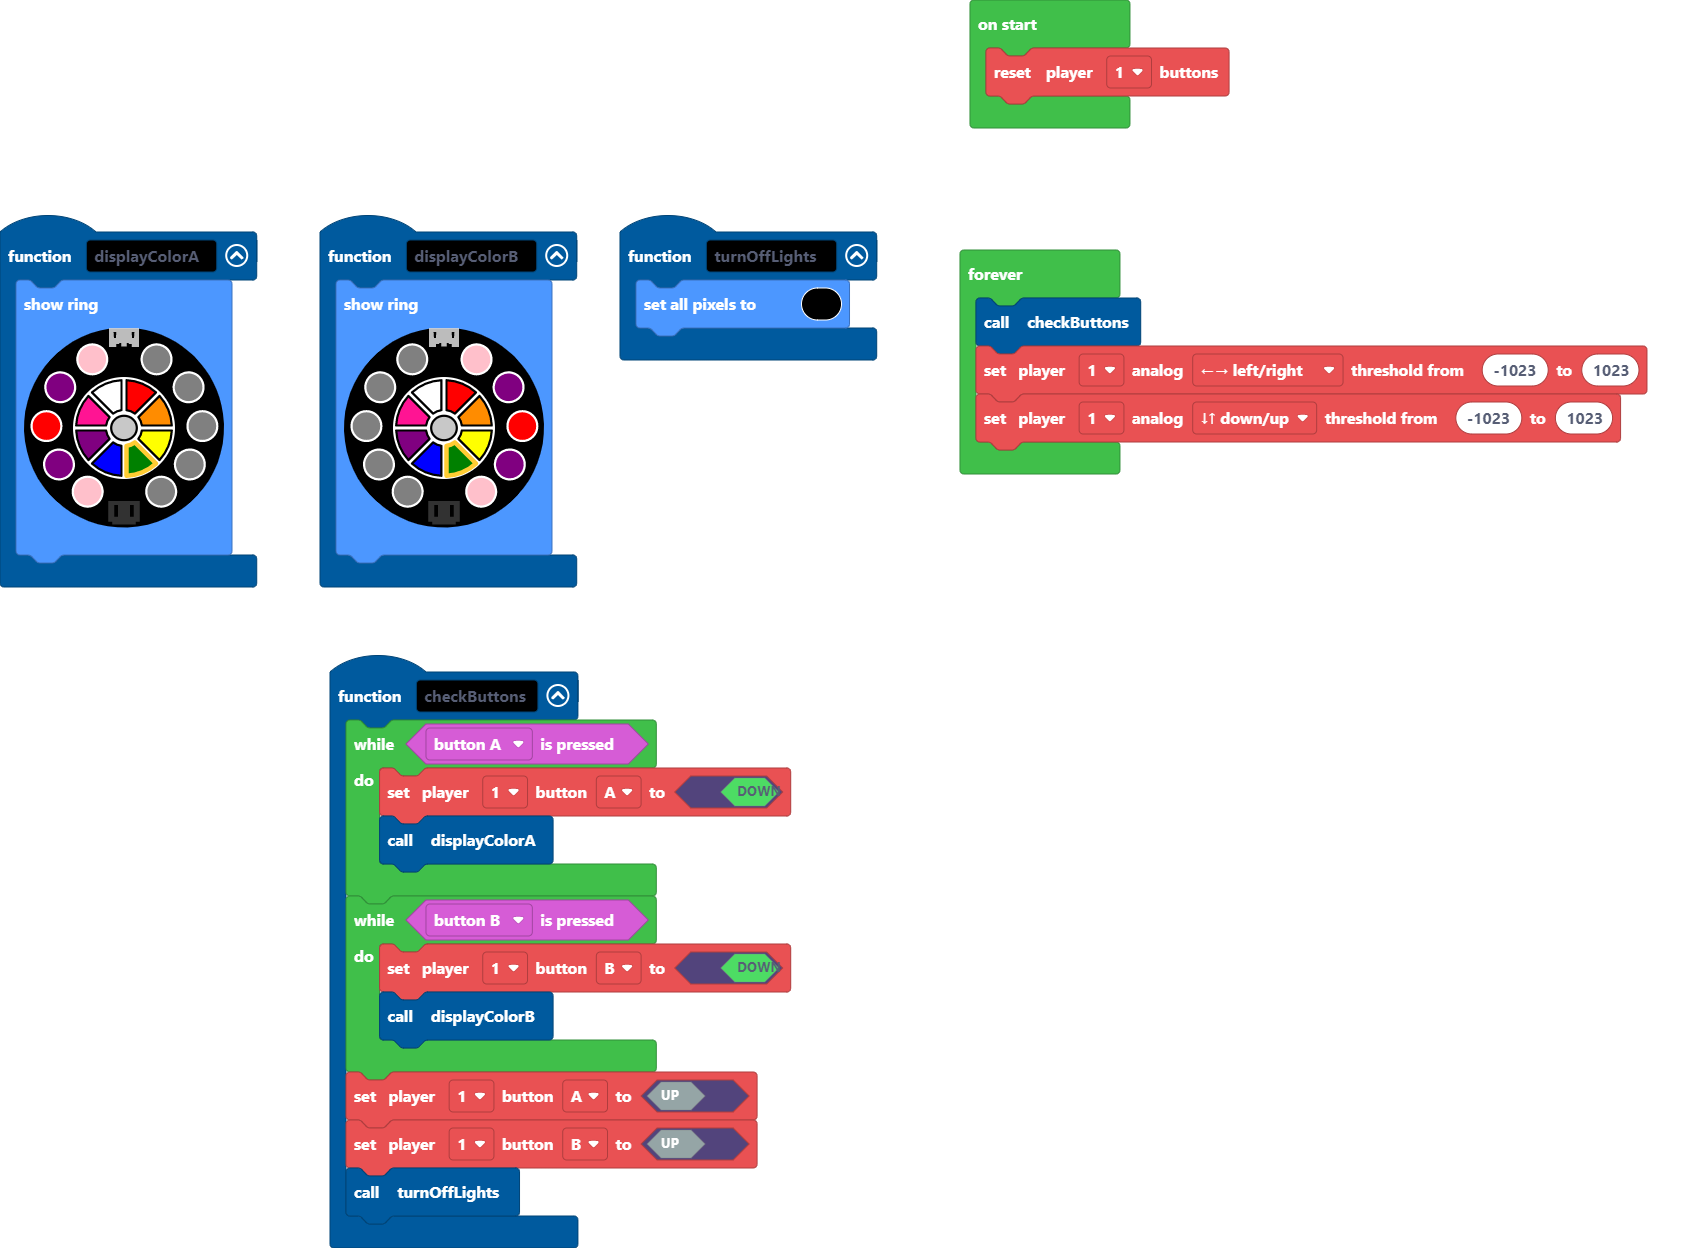
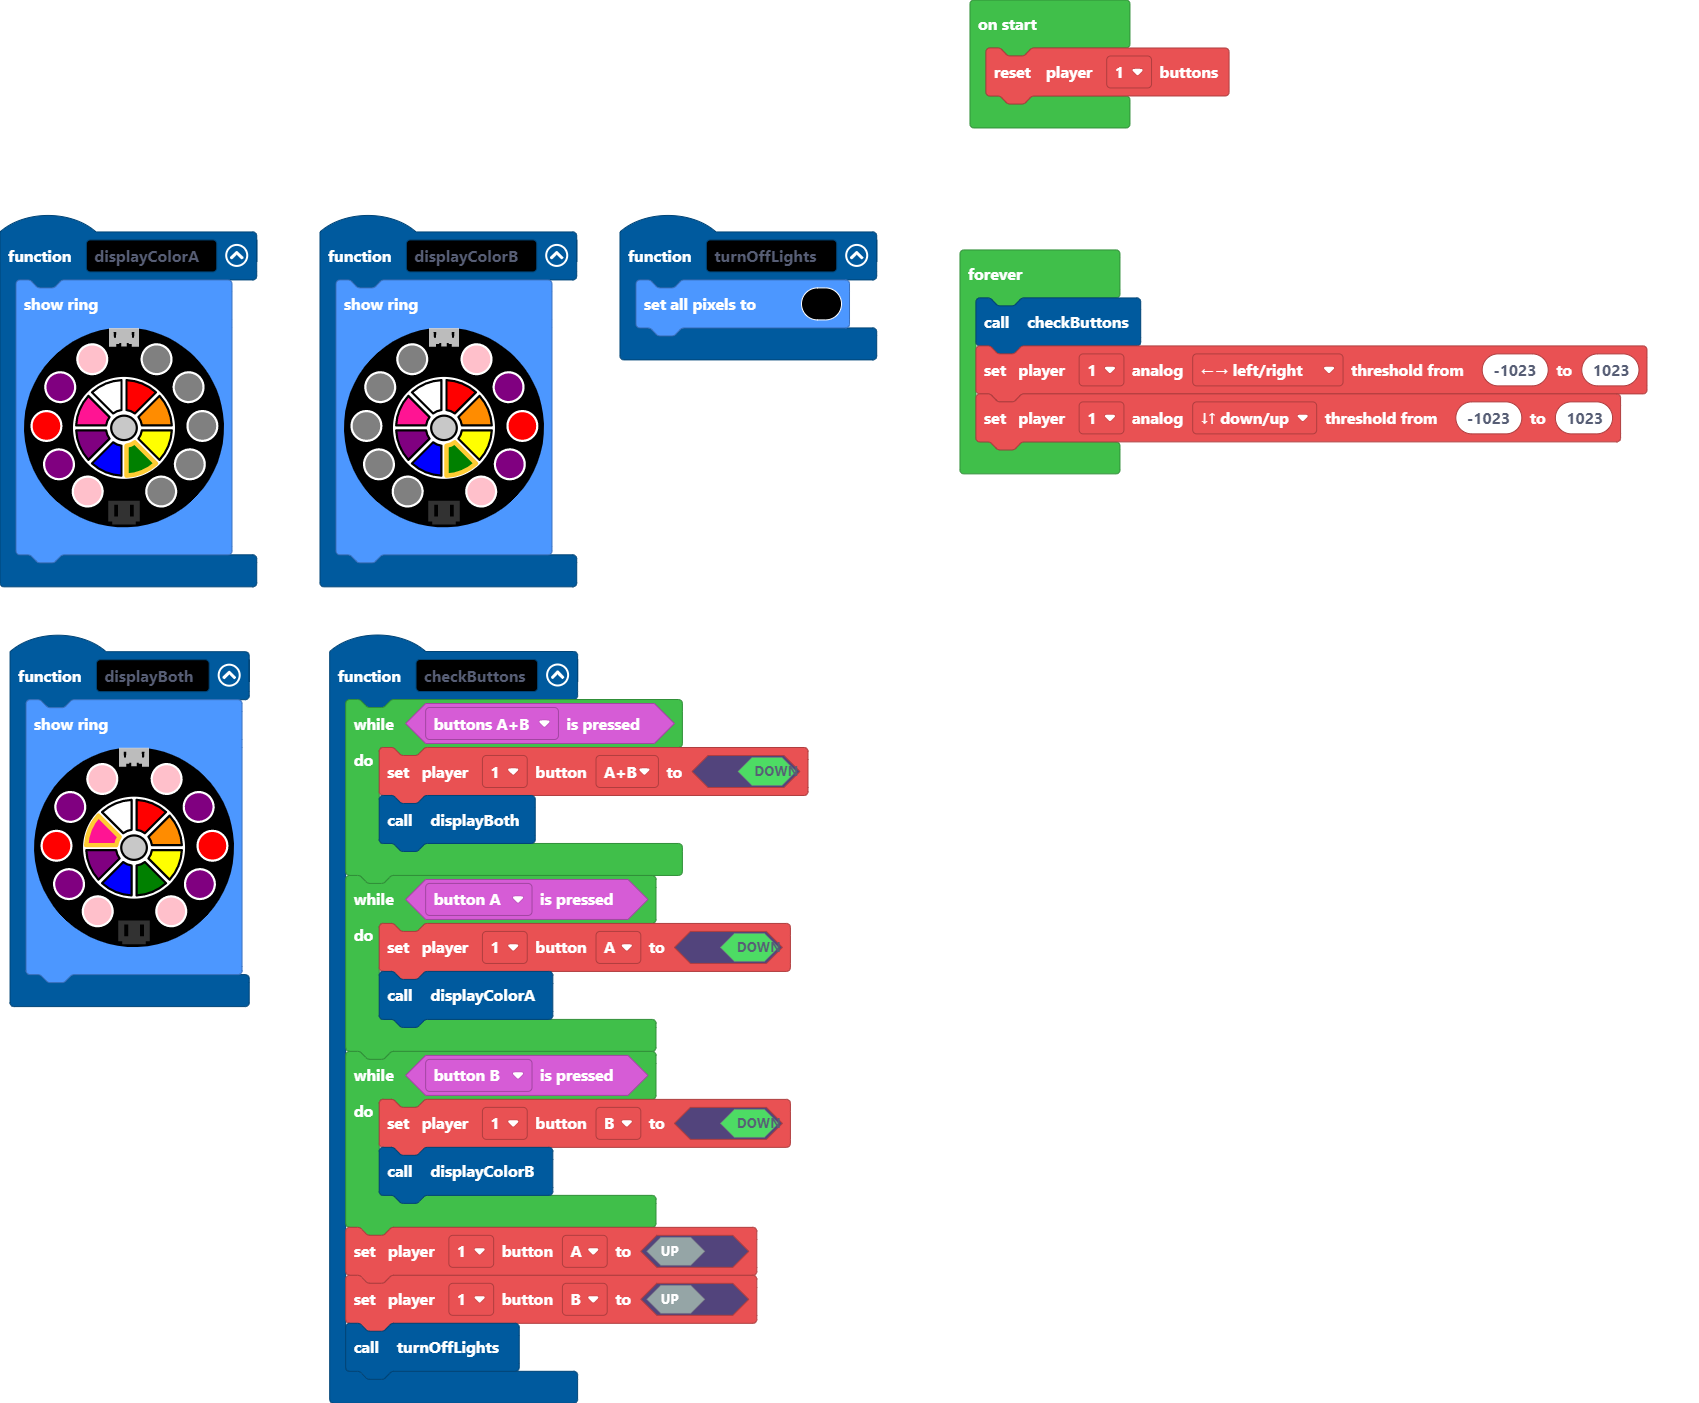
Update main.blocks, main.ts

diff --git a/main.ts b/main.ts
@@ -1,4 +1,8 @@
 function checkButtons () {
+    while (input.buttonsAB.isPressed()) {
+        makerController.player1.setButton(ArcadeButton.AB, true)
+        displayBoth()
+    }
     while (input.buttonA.isPressed()) {
         makerController.player1.setButton(ArcadeButton.A, true)
         displayColorA()
@@ -17,6 +21,11 @@ function turnOffLights () {
 function displayColorB () {
     light.showRing(
     `black black black black black pink purple red purple pink`
+    )
+}
+function displayBoth () {
+    light.showRing(
+    `pink purple red purple pink pink purple red purple pink`
     )
 }
 function displayColorA () {
